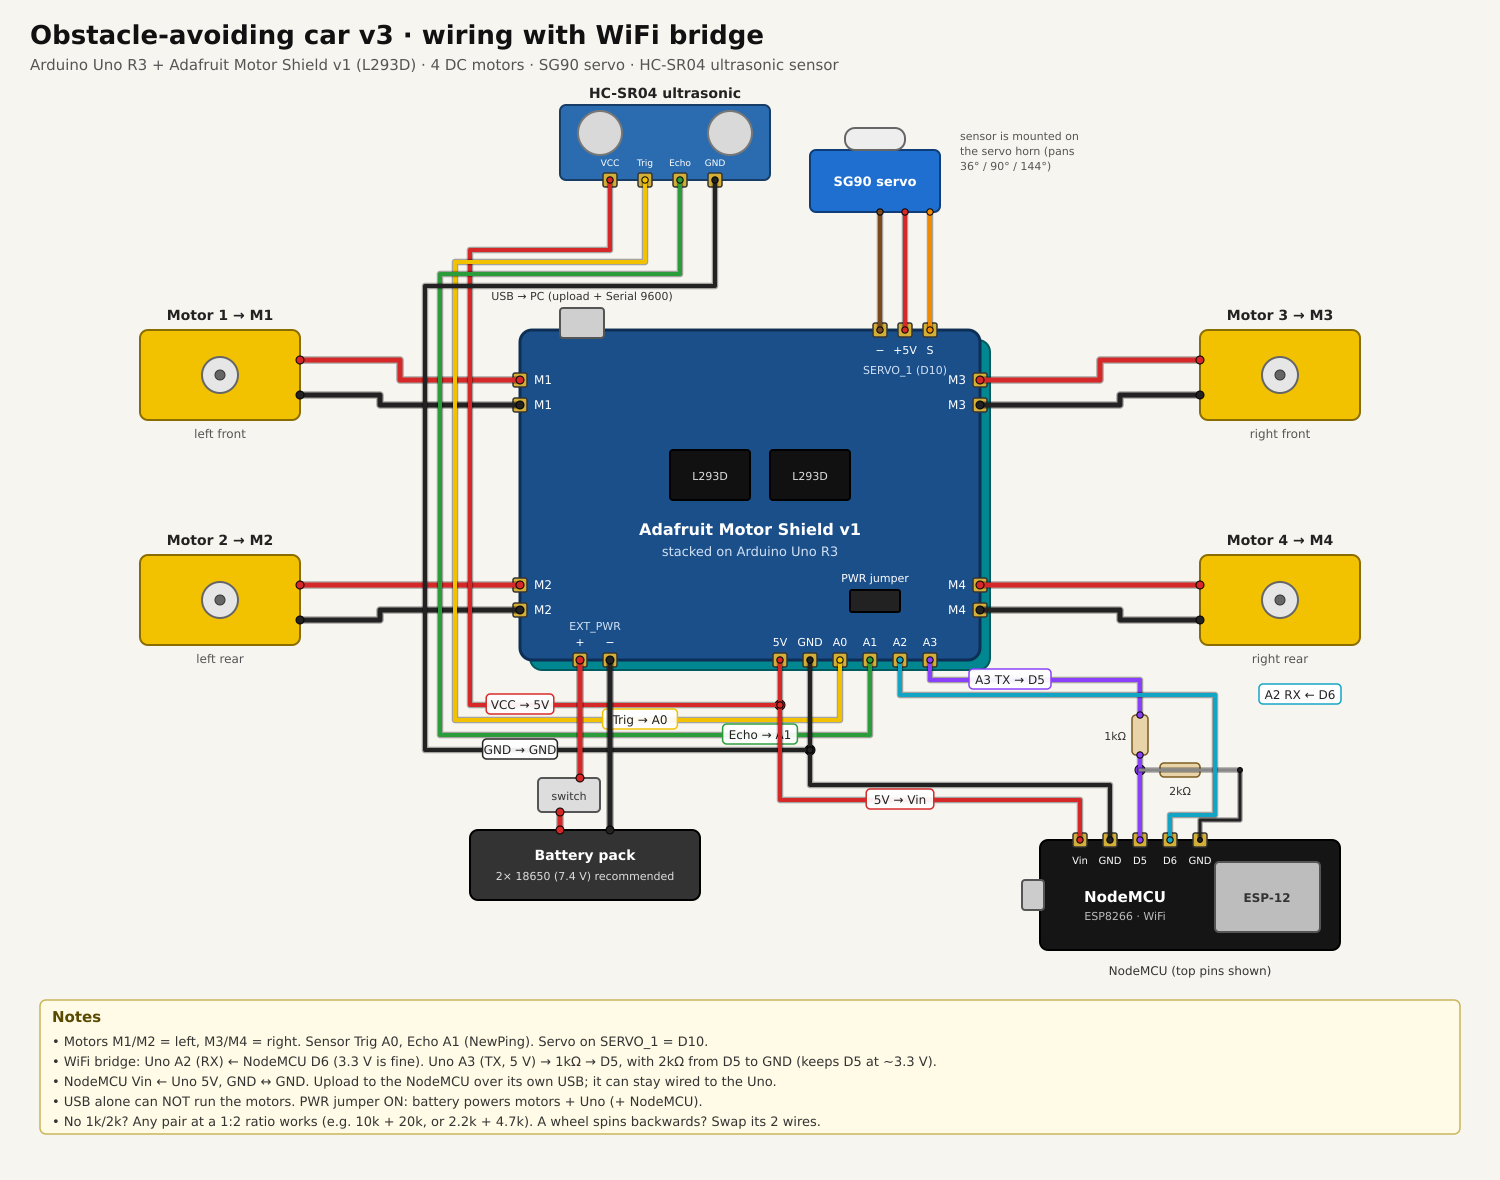
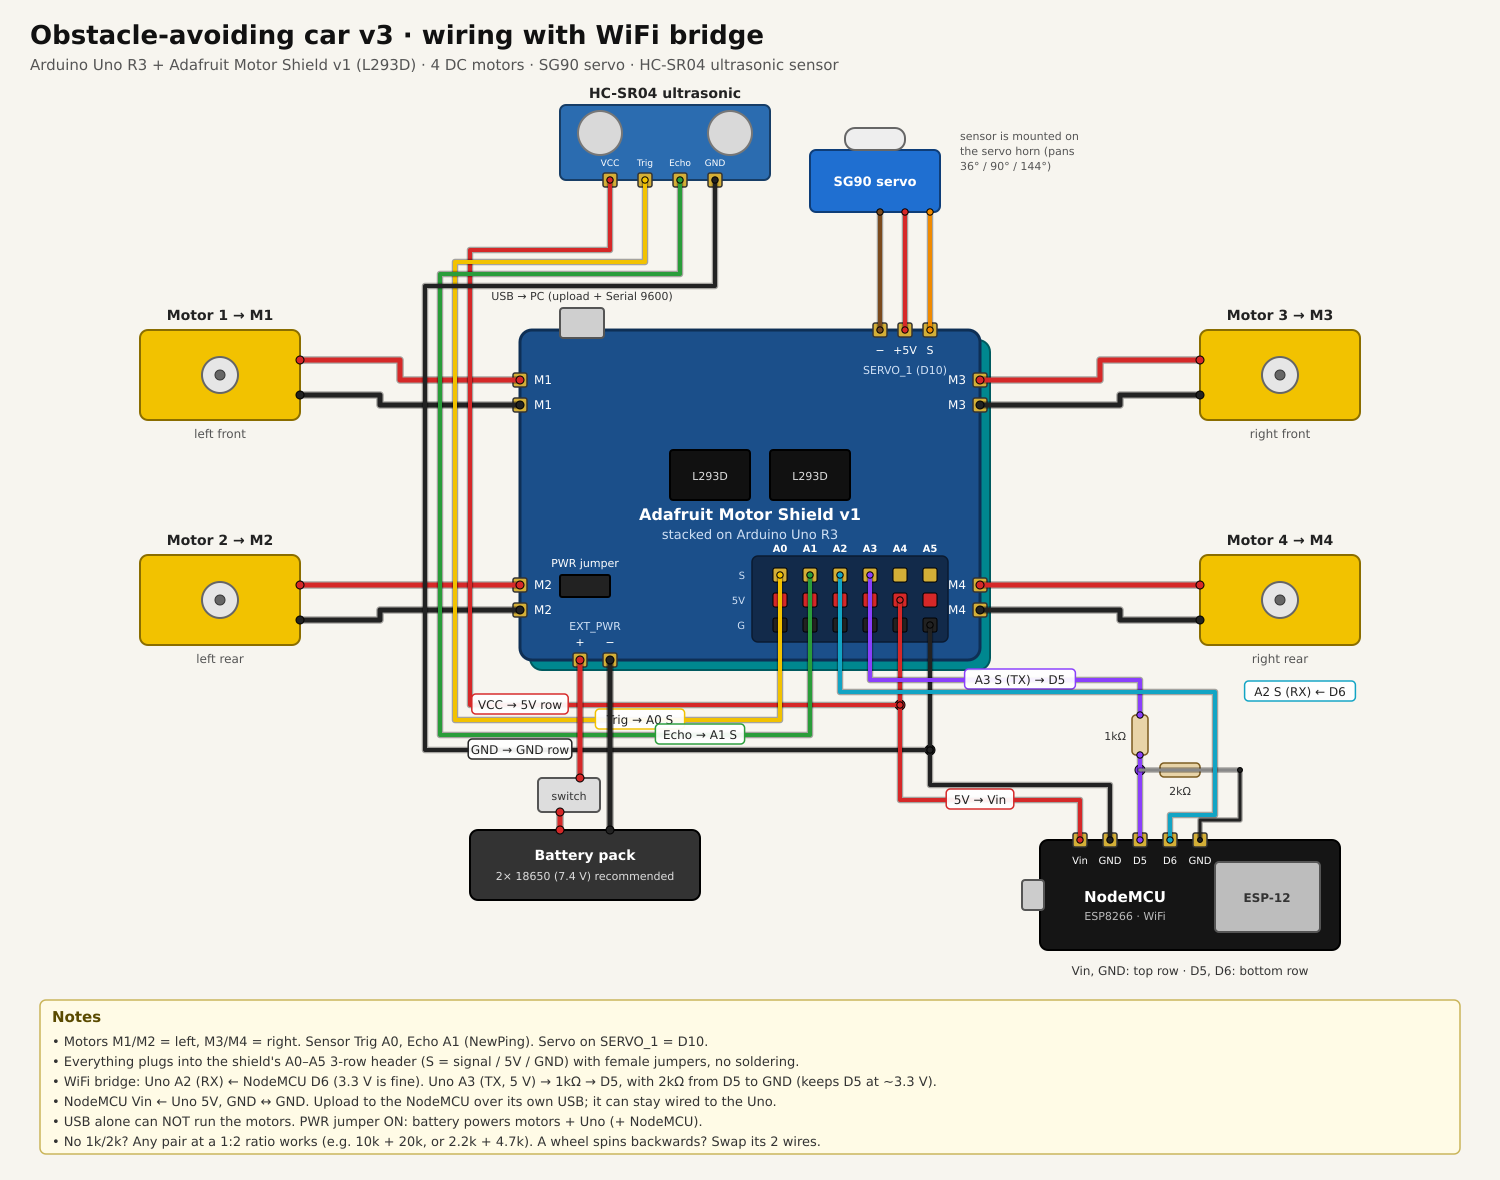
v3 wiring: connect the bridge through the A0-A5 header
Claude-Session: https://claude.ai/code/session_015okV5xhpTSJ7BsUHd5BTGs

diff --git a/docs/src/gen_car_wifi.py b/docs/src/gen_car_wifi.py
@@ -13,10 +13,10 @@ s.rect(X0 + 150, Y0 + 120, 80, 50, fill="#111", stroke="#000", rx=3)            
 s.rect(X0 + 250, Y0 + 120, 80, 50, fill="#111", stroke="#000", rx=3)
 s.text(X0 + 190, Y0 + 150, "L293D", 11, "#ddd", "middle")
 s.text(X0 + 290, Y0 + 150, "L293D", 11, "#ddd", "middle")
-s.text(X0 + BW / 2, Y0 + 205, "Adafruit Motor Shield v1", 16, "#fff", "middle", "bold")
-s.text(X0 + BW / 2, Y0 + 226, "stacked on Arduino Uno R3", 13, "#cfe0f5", "middle")
-s.rect(X0 + 330, Y0 + 260, 50, 22, fill="#222", stroke="#000", rx=2)
-s.text(X0 + 355, Y0 + 252, "PWR jumper", 11, "#fff", "middle")
+s.text(X0 + BW / 2, Y0 + 190, "Adafruit Motor Shield v1", 16, "#fff", "middle", "bold")
+s.text(X0 + BW / 2, Y0 + 209, "stacked on Arduino Uno R3", 13, "#cfe0f5", "middle")
+s.rect(X0 + 40, Y0 + 245, 50, 22, fill="#222", stroke="#000", rx=2)
+s.text(X0 + 65, Y0 + 237, "PWR jumper", 11, "#fff", "middle")
 s.rect(X0 + 40, Y0 - 22, 44, 30, fill="#cfcfcf", stroke="#555", rx=3)                   # USB-B on Uno
 s.text(X0 + 62, Y0 - 30, "USB → PC (upload + Serial 9600)", 11, "#333", "middle")
 
@@ -40,9 +40,18 @@ for lab, y in (("M3", 380), ("M3", 405), ("M4", 585), ("M4", 610)):
 for lab, x in (("−", 880), ("+5V", 905), ("S", 930)):
     edge_pin(x, Y0, lab, "top")
 s.text(905, Y0 + 44, "SERVO_1 (D10)", 11, "#cfe0f5", "middle")
-# analog/power row (bottom edge)
-for lab, x in (("5V", 780), ("GND", 810), ("A0", 840), ("A1", 870), ("A2", 900), ("A3", 930)):
-    edge_pin(x, Y0 + BH, lab, "bottom")
+# A0-A5 3-row header on the shield (signal / 5V / GND), servo-style: sensor plugs in with female jumpers
+COLS = {f"A{i}": 780 + i * 30 for i in range(6)}
+HS, H5, HG = 575, 600, 625
+s.rect(752, 556, 196, 86, fill="#122a4a", stroke="#0a1a30", sw=1.5, rx=6)
+s.text(850, 653 - 2, "", 1)
+for i, (k, x) in enumerate(COLS.items()):
+    s.text(x, 552, k, 10, "#fff", "middle", "bold")
+    for yy, f in ((HS, "#d4af37"), (H5, "#d62828"), (HG, "#222")):
+        s.rect(x - 7, yy - 7, 14, 14, fill=f, stroke="#000", sw=1, rx=2)
+for lab, yy in (("S", HS), ("5V", H5), ("G", HG)):
+    s.text(745, yy + 4, lab, 10, "#cfe0f5", "end")
+
 # external power terminal (bottom edge)
 for lab, x in (("+", 580), ("−", 610)):
     edge_pin(x, Y0 + BH, lab, "bottom")
@@ -91,14 +100,14 @@ s.wire([(905, 212), (905, Y0)], "red", 4)
 s.wire([(930, 212), (930, Y0)], "orange", 4)
 
 # HC-SR04 → bottom row, routed around the left side of the board
-s.wire([(610, 180), (610, 250), (470, 250), (470, 705), (780, 705), (780, Y0 + BH)], "red", 4,
-       "VCC → 5V", (520, 705))
-s.wire([(645, 180), (645, 262), (455, 262), (455, 720), (840, 720), (840, Y0 + BH)], "yellow", 4,
-       "Trig → A0", (640, 720))
-s.wire([(680, 180), (680, 274), (440, 274), (440, 735), (870, 735), (870, Y0 + BH)], "green", 4,
-       "Echo → A1", (760, 735))
-s.wire([(715, 180), (715, 286), (425, 286), (425, 750), (810, 750), (810, Y0 + BH)], "black", 4,
-       "GND → GND", (520, 750))
+s.wire([(610, 180), (610, 250), (470, 250), (470, 705), (900, 705), (900, H5)], "red", 4,
+       "VCC → 5V row", (520, 705))
+s.wire([(645, 180), (645, 262), (455, 262), (455, 720), (780, 720), (780, HS)], "yellow", 4,
+       "Trig → A0 S", (640, 720))
+s.wire([(680, 180), (680, 274), (440, 274), (440, 735), (810, 735), (810, HS)], "green", 4,
+       "Echo → A1 S", (700, 735))
+s.wire([(715, 180), (715, 286), (425, 286), (425, 750), (930, 750), (930, HG)], "black", 4,
+       "GND → GND row", (520, 750))
 
 # ---------------- battery ----------------
 s.rect(470, 830, 230, 70, fill="#333", stroke="#000", sw=2, rx=8)
@@ -118,19 +127,19 @@ s.text(NX + 227, NY + 62, "ESP-12", 12, "#333", "middle", "bold")
 s.text(NX + 85, NY + 62, "NodeMCU", 15, "#fff", "middle", "bold")
 s.text(NX + 85, NY + 80, "ESP8266 · WiFi", 11, "#bbb", "middle")
 s.rect(NX - 18, NY + 40, 22, 30, fill="#ccc", stroke="#555", rx=3)
-s.text(NX + 150, NY + 135, "NodeMCU (top pins shown)", 12, "#333", "middle")
+s.text(NX + 150, NY + 135, "Vin, GND: top row · D5, D6: bottom row", 12, "#333", "middle")
 NP = {"Vin": NX + 40, "GND": NX + 70, "D5": NX + 100, "D6": NX + 130, "GND2": NX + 160}
 for lab, x in NP.items():
     s.pin(x, NY)
     s.text(x, NY + 24, "GND" if lab == "GND2" else lab, 10, "#fff", "middle")
 
 BY = Y0 + BH
-s.wire([(780, 705), (780, 800), (NP["Vin"], 800), (NP["Vin"], NY)], "red", 4, "5V → Vin", (900, 800))
-s.circle(780, 705, 5, fill="#d62828", stroke="#000", sw=1)
-s.wire([(810, 750), (810, 785), (NP["GND"], 785), (NP["GND"], NY)], "black", 4)
-s.circle(810, 750, 5, fill="#222", stroke="#000", sw=1)
+s.wire([(900, 705), (900, 800), (NP["Vin"], 800), (NP["Vin"], NY)], "red", 4, "5V → Vin", (980, 800))
+s.circle(900, 705, 5, fill="#d62828", stroke="#000", sw=1)
+s.wire([(930, 750), (930, 785), (NP["GND"], 785), (NP["GND"], NY)], "black", 4)
+s.circle(930, 750, 5, fill="#222", stroke="#000", sw=1)
 # Uno A3 (TX, 5 V) -> 1k -> node -> D5 ; node -> 2k -> GND  (5 V -> 3.3 V)
-s.wire([(930, BY), (930, 680), (NP["D5"], 680), (NP["D5"], 715)], "purple", 4, "A3 TX → D5", (1010, 680))
+s.wire([(COLS["A3"], HS), (COLS["A3"], 680), (NP["D5"], 680), (NP["D5"], 715)], "purple", 4, "A3 S (TX) → D5", (1020, 680))
 s.wire([(NP["D5"], 755), (NP["D5"], NY)], "purple", 4)
 s.rect(NP["D5"] - 8, 715, 16, 40, fill="#e8d4a8", stroke="#7a5a1e", sw=1.5, rx=4)
 s.text(NP["D5"] - 14, 740, "1kΩ", 11, "#333", "end")
@@ -139,11 +148,12 @@ s.rect(NP["D5"] + 20, 763, 40, 14, fill="#e8d4a8", stroke="#7a5a1e", sw=1.5, rx=
 s.text(NP["D5"] + 40, 795, "2kΩ", 11, "#333", "middle")
 s.circle(NP["D5"], 770, 5, fill="#8a3ffc", stroke="#000", sw=1)
 s.wire([(NP["GND2"] + 40, 770), (NP["GND2"] + 40, 820), (NP["GND2"], 820), (NP["GND2"], NY)], "black", 3)
-s.wire([(900, BY), (900, 695), (1215, 695), (1215, 815), (NP["D6"], 815), (NP["D6"], NY)], "cyan", 4,
-       "A2 RX ← D6", (1300, 695))
+s.wire([(COLS["A2"], HS), (COLS["A2"], 692), (1215, 692), (1215, 815), (NP["D6"], 815), (NP["D6"], NY)], "cyan", 4,
+       "A2 S (RX) ← D6", (1300, 692))
 
 s.legend_box(40, 1000, 1420, [
     "• Motors M1/M2 = left, M3/M4 = right. Sensor Trig A0, Echo A1 (NewPing). Servo on SERVO_1 = D10.",
+    "• Everything plugs into the shield's A0–A5 3-row header (S = signal / 5V / GND) with female jumpers, no soldering.",
     "• WiFi bridge: Uno A2 (RX) ← NodeMCU D6 (3.3 V is fine). Uno A3 (TX, 5 V) → 1kΩ → D5, with 2kΩ from D5 to GND (keeps D5 at ~3.3 V).",
     "• NodeMCU Vin ← Uno 5V, GND ↔ GND. Upload to the NodeMCU over its own USB; it can stay wired to the Uno.",
     "• USB alone can NOT run the motors. PWR jumper ON: battery powers motors + Uno (+ NodeMCU).",

diff --git a/README.md b/README.md
@@ -85,10 +85,10 @@ Two sketches:
 ### Extra wiring
 | From | To |
 |---|---|
-| NodeMCU **D6** | Uno **A2** (direct) |
-| Uno **A3** | **1 kΩ** → NodeMCU **D5**, plus **2 kΩ** from D5 to GND (5 V → 3.3 V) |
-| NodeMCU **Vin** | Uno **5V** |
-| NodeMCU **GND** | Uno **GND** |
+| NodeMCU **D6** (bottom row) | header **A2 S** (direct) |
+| header **A3 S** | **1 kΩ** → NodeMCU **D5** (bottom row), plus **2 kΩ** from D5 to GND (5 V → 3.3 V) |
+| NodeMCU **Vin** (top row) | header **5V** row |
+| NodeMCU **GND** (top row) | header **GND** row |
 
 ### Setting up the NodeMCU (once)
 1. Arduino IDE → File → Preferences → Additional Boards Manager URLs: `http://arduino.esp8266.com/stable/package_esp8266com_index.json`
